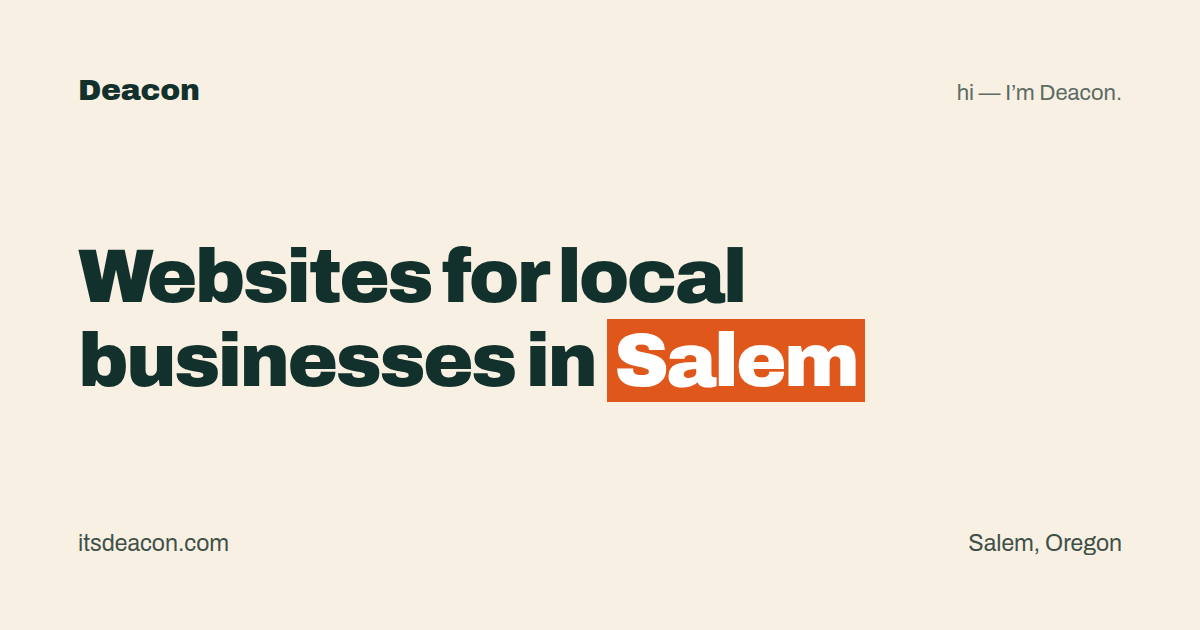
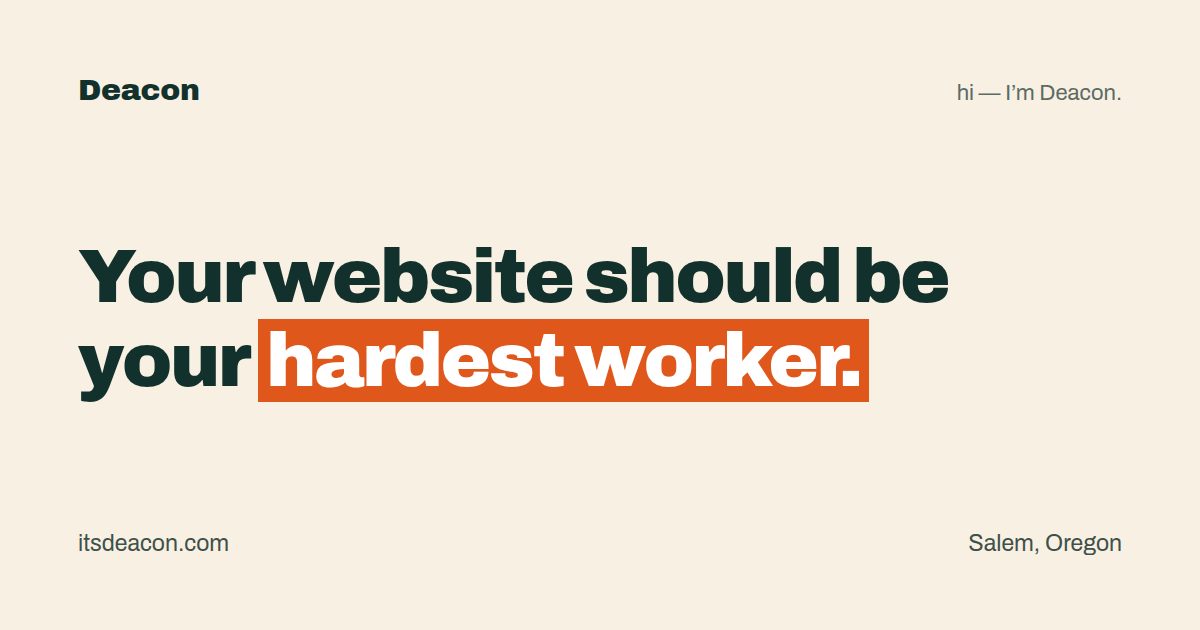
New homepage tagline; the price card comes off
"Your website should be your hardest worker." is the front page's headline
now, and the white panel under it — the free-homepage offer, the $1,200 against
the $6,000-15,000 agency quote, the "yours to keep" line — is gone entirely.
The price lives on the two pitch pages, where somebody reading the pitch is
ready for it.

The tagline came with a conflict. That sentence was /small-business's H1,
almost word for word, and an earlier change had moved it off the homepage
precisely so two indexed pages would not carry the same headline. So
/small-business takes back the line it had before c56dd05 swapped them —
"You're one of three names on a screen." — which is the better fit anyway: the
hero's own graphic beside it is three local search results, the third of them
marked YOU with no reviews and no hours. The headline and the picture finally
say the same thing; the employee line never had anything to do with it.

Anything that quotes a headline moved with it: the lede, the card aside
captioning that picture, and the marquee's first phrase, which is a quote of
the hero above it.

Also the defect in the screenshot: the orange block carries padding: 0 .14em,
and on the homepage the punctuation sat OUTSIDE the span, so the block's own
padding opened a visible gap before the comma. Both other heroes put the
trailing stop inside. The homepage was the odd one out and now isn't, and the
rule is written into the README so it stays that way.
[…]

Changed region(s): [[0.0617, 0.3921, 0.8017, 0.6635]]

diff --git a/src/components/HeroBusiness.tsx b/src/components/HeroBusiness.tsx
@@ -12,9 +12,9 @@ import styles from "./HeroBusiness.module.css";
  * That object is a search-results fragment, and it is a different story from
  * the restaurant page's phone card on purpose. A restaurant is recommended and
  * then looked up; a trades business is *found* — someone searches a category
- * and compares three names side by side. Two of them look alive. The third is
- * the one whose website has, in the headline's terms, clocked off: no reviews,
- * no hours, and the sentence the template shipped with.
+ * and compares three names side by side. The headline says exactly what the
+ * picture shows: two of the three look alive, and the third has no reviews, no
+ * hours, and the sentence the template shipped with.
  */
 export function HeroBusiness() {
   return (
@@ -32,16 +32,14 @@ export function HeroBusiness() {
         <p className={hero.greeting}>hi — I&rsquo;m Deacon.</p>
 
         <h1 className={hero.headline}>
-          Your website should be your{" "}
-          {/* Non-breaking hyphen: this phrase must never break badly. */}
-          <span className={hero.accent}>hardest&#8209;working employee.</span>
+          You&rsquo;re one of{" "}
+          <span className={hero.accent}>three names on a screen.</span>
         </h1>
 
         <p className={hero.lede}>
-          Trades, shops, studios, services — while you&rsquo;re out on a job,
-          your website is the only one of you still working. Most of them have
-          clocked off. I build the kind that hasn&rsquo;t, by hand, one at a
-          time.
+          Trades, shops, studios, services — whoever needs you is comparing you
+          to two other people before you get to say a word. I build the website
+          that wins that ten seconds. By hand, one at a time.
         </p>
 
         <div className={hero.buttons}>
@@ -60,7 +58,7 @@ export function HeroBusiness() {
 
       <div className={hero.cardColumn}>
         <SearchResults />
-        <p className={hero.cardAside}>yours is the one that clocked off</p>
+        <p className={hero.cardAside}>this is the whole shortlist</p>
       </div>
     </header>
   );

diff --git a/src/app/page.module.css b/src/app/page.module.css
@@ -115,72 +115,14 @@
   letter-spacing: -0.035em;
 }
 
-.place {
+/* The trailing punctuation goes inside this span, not after it: the padding
+   below is what opened a visible gap before the comma when it sat outside. */
+.accent {
   background: var(--brand);
   color: var(--on-brand);
   box-decoration-break: clone;
   -webkit-box-decoration-break: clone;
   padding: 0 0.14em;
-}
-
-/* The offer was one muted 19px line under the headline — the best sales
-   sentence on the site, set like a footnote, with the price nowhere on the
-   page at all. It is a panel now, in the same vocabulary as the hero card and
-   the napkin: white ground, keyline, hard offset shadow. */
-.offer {
-  margin: clamp(22px, 2.6vw, 30px) 0 0;
-  max-width: min(100%, 560px);
-  padding: clamp(22px, 2.4vw, 30px) clamp(22px, 2.6vw, 32px);
-  border: 2px solid var(--ink);
-  border-radius: var(--r-panel);
-  background: var(--panel);
-  box-shadow: 10px 10px 0 var(--ink-12);
-}
-
-.offerLead {
-  margin: 0;
-  font-family: var(--font-display);
-  font-weight: 700;
-  font-size: 21px;
-  line-height: 1.3;
-  letter-spacing: -0.015em;
-}
-
-.price {
-  display: flex;
-  align-items: baseline;
-  gap: 14px;
-  flex-wrap: wrap;
-  margin-top: 16px;
-  padding-top: 16px;
-  border-top: 2px solid var(--ink-12);
-}
-
-/* --show, not --say: the headline stays the largest thing on the page and
-   check2.mjs asserts it. */
-.priceFigure {
-  flex-shrink: 0;
-  font-family: var(--font-display);
-  font-weight: 800;
-  font-size: var(--show);
-  line-height: 1;
-  letter-spacing: -0.035em;
-  color: var(--brand-deep);
-}
-
-.priceNote {
-  flex: 1;
-  min-width: 200px;
-  font-size: 16px;
-  line-height: 1.5;
-  color: var(--muted);
-}
-
-.offerFoot {
-  margin: 14px 0 0;
-  font-size: 15px;
-  font-style: italic;
-  color: var(--muted-2);
 }
 
 /* The two pitch pages, as links in a sentence rather than a fork in the road. */

diff --git a/src/app/page.tsx b/src/app/page.tsx
@@ -74,29 +74,9 @@ export default function Home() {
             <p className={styles.hi}>hi &mdash; I&rsquo;m Deacon.</p>
 
             <h1 className={styles.headline}>
-              I build websites for local businesses in{" "}
-              <span className={styles.place}>Salem</span>, by hand, one at a
-              time.
+              Your website should be your{" "}
+              <span className={styles.accent}>hardest worker.</span>
             </h1>
-
-            <div className={styles.offer}>
-              <p className={styles.offerLead}>
-                I build your homepage first, before you owe me a cent.
-              </p>
-
-              <div className={styles.price}>
-                <span className={styles.priceFigure}>$1,200</span>
-                <span className={styles.priceNote}>
-                  after that, if you want the rest of the site. An agency
-                  quotes the same work at $6,000&ndash;15,000.
-                </span>
-              </div>
-
-              <p className={styles.offerFoot}>
-                The mockup is free and yours to keep &mdash; even if you tell
-                me no today.
-              </p>
-            </div>
           </div>
         </section>
 

diff --git a/src/components/Hero.module.css b/src/components/Hero.module.css
@@ -60,20 +60,6 @@
   letter-spacing: -0.035em;
 }
 
-/* "hardest-working" carries a non-breaking hyphen so it never splits, which
-   means the word has to fit whole. At the 44px floor it needs ~342px, more
-   than a 320px screen can give it. Below the design's narrowest tested width
-   the type steps down just far enough; 375px and up are untouched.
-
-   That phrase now heads /small-business rather than /restaurants, but this
-   rule stays here because both heroes share .headline — HeroBusiness imports
-   this module for its whole left column. Don't move it. */
-@media (max-width: 359px) {
-  .headline {
-    font-size: 36px;
-  }
-}
-
 /* A longer headline at the same display size runs to five lines and pushes the
    buttons off a laptop screen. This is the same type, stepped down to sit in
    three or four — the restaurant hero uses it; the small-business one, whose

diff --git a/src/app/small-business/page.tsx b/src/app/small-business/page.tsx
@@ -49,7 +49,7 @@ export const metadata = metadataFor(META);
  * restaurant page's along with the headline.
  */
 const MARQUEE = [
-  "Your hardest-working employee",
+  "You’re one of three names",
   "Free mockup first",
   "Live in two weeks",
   "No hostages",

diff --git a/README.md b/README.md
@@ -7,7 +7,7 @@ local businesses.
 
 | Route | What it is |
 |---|---|
-| `/` | The front page. Who Deacon is, where he is, what it costs, two doors into the pitches, and three sites he built. |
+| `/` | The front page. Who Deacon is, the tagline, two doors into the pitches, and three sites he built. |
 | `/restaurants` | The original pitch, moved here verbatim. |
 | `/small-business` | The same argument, made to someone who gets *found* rather than recommended. |
 
@@ -268,6 +268,24 @@ Ridgeline is hi-vis, and against the cream they detonate — which is the point.
 Those are other people's businesses and they are supposed to look like
 themselves, not like Deacon.
 
+### One line, one page
+
+**"Your website should be your hardest worker."** is the homepage's, and it is
+the homepage's alone. It sat on `/small-business` for a while, and putting it
+back on `/` without moving it would have left two indexed pages making the same
+claim in the same words — which is the thing the per-route canonicals exist to
+avoid. `/small-business` took back **"You're one of three names on a screen."**,
+which is also the better line for it: the hero's own graphic beside that
+headline is three local search results.
+
+Anything that quotes a headline has to move with it. The `SiteFooter` marquee's
+first phrase is a quote of the hero above it, and `HeroBusiness`'s card aside
+captions the picture — both changed too.
+
+**Trailing punctuation goes inside the accent span**, never after it. The block
+carries `padding: 0 .14em`, so a comma or full stop left outside sits away from
+the word with a visible gap in it.
+
 ### Social cards
 
 Each route has its own `opengraph-image.png` beside its `page.tsx`, and Next's
@@ -329,13 +347,6 @@ both to fix things that were broken rather than to restyle anything:
    page as you scrolled. Below 620px the brand and the call to action take the
    first line and the links scroll along the second — the two lines the handoff
    describes.
-2. **The hero headline** (`Hero.module.css`, `max-width: 359px`). Its
-   non-breaking hyphen means "hardest-working" can never split, so the word has
-   to fit whole; at the 44px floor it needs more room than a 320px screen has.
-   Below the handoff's narrowest tested width the type steps down. 375px and up
-   are untouched. That phrase now heads `/small-business`, but the rule stays
-   in `Hero.module.css` because both heroes share `.headline` —
-   `HeroBusiness` imports this module for its entire left column.
 
 Every `repeat(auto-fit, minmax(Npx, 1fr))` also became
 `minmax(min(Npx, 100%), 1fr)`, which behaves identically above the floor and
